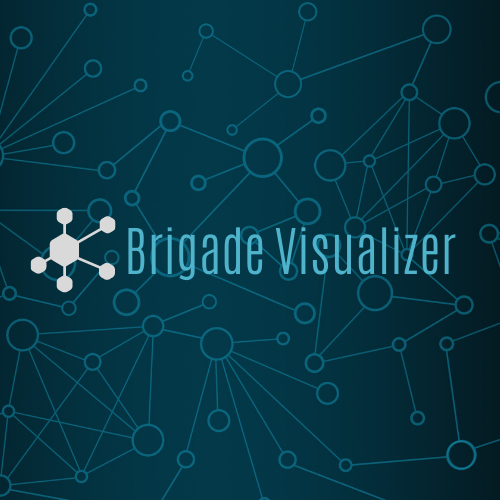
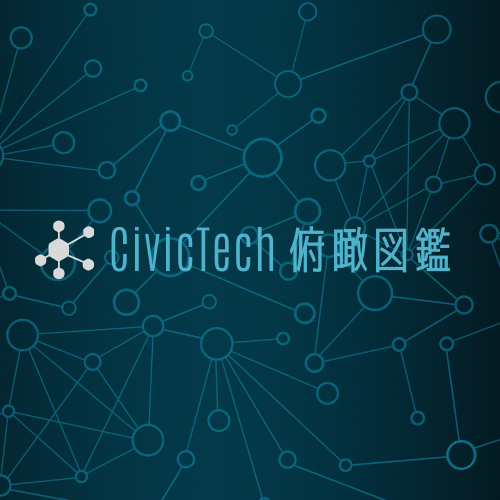
CivicTech俯瞰図鑑に改名・キーワードをソート・アンケートページを追加

Changed region(s): [[0.06, 0.42, 0.93, 0.6]]

diff --git a/index.html b/index.html
@@ -4,10 +4,10 @@
   <meta charset="UTF-8">
   <meta name="viewport" content="width=device-width">
   <meta property="og:url" content="https://siramatu.github.io/brigade-visualizer/" />
-  <meta property="og:title" content="Brigade Visualiser" />
-  <meta property="og:description" content="各地ブリゲードの特徴を分かりやすく伝えたい" />
+  <meta property="og:title" content="CivicTech 俯瞰図鑑" />
+  <meta property="og:description" content="各地シビックテックコミュニティの特徴と関連性を分かりやすく伝えたい" />
   <meta property="og:image" content="https://siramatu.github.io/brigade-visualizer/img/ogp.png" />
-  <title>BRIGADE-VISUALIZER</title>
+  <title>CivicTech 俯瞰図鑑</title>
   <!-- import CSS -->
   <link rel="stylesheet" href="https://unpkg.com/element-ui/lib/theme-chalk/index.css">
   <link href="https://cdnjs.cloudflare.com/ajax/libs/vis/4.21.0/vis.min.css" rel="stylesheet">
@@ -26,7 +26,7 @@
 </head>
 <body>
   <div id="app">
-    <el-header><img src="./img/logo.png" height="90px"></el-header>
+    <el-header><img src="./img/logo.png" height="80px"></el-header>
     <el-main>
       <el-tabs v-model="activeName" @tab-click="handleClick">
         <el-tab-pane label="Top" name="top">
@@ -41,7 +41,7 @@
           <el-button v-on:click="draw()" v-loading.fullscreen.lock="fullscreenLoading">draw</el-button>
           <br><br>
           <div id="mynetwork"></div>
-          <p>選択したブリゲードに近い上位{{max_node}}件のブリゲードを表示しています</p>
+          <p>選択したコミュニティに近い上位{{max_node}}件のコミュニティを表示しています</p>
           <p>Embedding Projectorで見る場合は<a target="_blank" href="https://projector.tensorflow.org/?config=https://raw.githubusercontent.com/siramatu/brigade-visualizer/master/embedding_projector_config.json">こちら</a>をクリック</p>
         </el-tab-pane>
         <el-tab-pane label="Keyword" name="keyword">
@@ -56,8 +56,12 @@
           <el-button v-on:click="drawKeyword()" v-loading.fullscreen.lock="fullscreenLoading">draw</el-button>
           <br><br>
           <div id="keywordnetwork"></div>
-          <p>選択したキーワードに関心度の高い上位{{max_node}}件のブリゲードを表示しています</p>
-      </el-tab-pane>
+          <p>選択したキーワードに関心度の高い上位{{max_node}}件のコミュニティを表示しています</p>
+        </el-tab-pane>
+        <el-tab-pane label="entry" name="entry">
+          コミュニティを登録したい方はこちらのアンケートにお答えください
+          <iframe width="100%" height="500" src="https://forms.gle/21TLsqKQQLTaCHKd6" frameborder="0"></iframe>
+        </el-tab-pane>
         <el-tab-pane label="About" name="about">
           <iframe width="100%" height="500" src="https://hackmd.io/@TGL6KqgYTmyO2qgobnL2pg/Hy4uJ5CLD/" frameborder="0"></iframe>
         </el-tab-pane>
@@ -75,8 +79,8 @@
   <script src="https://unpkg.com/element-ui/lib/index.js"></script>
   <script src="https://unpkg.com/axios/dist/axios.min.js"></script>
   <script>
-    var LENGTH_BRIGADE = 8000, //ブリゲード間の距離の重み
-    LENGTH_KEYWORD = 100,//ブリゲード-キーワード間の距離の重み
+    var LENGTH_BRIGADE = 8000, //コミュニティ間の距離の重み
+    LENGTH_KEYWORD = 100,//コミュニティ-キーワード間の距離の重み
     MAX_NODE = 5; //表示件数
     new Vue({
       el: '#app',
@@ -103,14 +107,14 @@
           console.log("draw***********************");
           //入力チェック
           if (this.selectedValue == '') {
-            this.message = "ブリゲードを選択して下さい";
+            this.message = "コミュニティを選択して下さい";
             this.visible = true;
             return;
           }
 
           this.fullscreenLoading = true;//描画中
 
-          //選択されたブリゲードと距離の近いブリゲードを取得する
+          //選択されたコミュニティと距離の近いコミュニティを取得する
           let bg_map = this.selectedBrigade(MAX_NODE);
 
           //ネットワーク図の描画
@@ -128,14 +132,14 @@
 
           this.fullscreenLoading = true;//描画中
 
-          //選択されたキーワードと距離の近いブリゲードを取得する
+          //選択されたキーワードと距離の近いコミュニティを取得する
           let bg_map = this.selectedBrigadeKeyword(MAX_NODE);
 
           //ネットワーク図の描画
           this.drawNetwork(bg_map,"keywordnetwork",this.selectedKeyword);
         },
         selectedBrigade:function(max_cnt) {
-          //選択されたブリゲードと距離の近いブリゲードを取得する
+          //選択されたコミュニティと距離の近いコミュニティを取得する
           //let bg_arr = []
           let bg_map = new Map();
           bg_map.set(this.selectedValue,'1.0');
@@ -150,11 +154,11 @@
               bg_map.set(cols[0],cols[2]);//from
             }
           }
-          return this.filterBrigade(bg_map,max_cnt+1);//自分のブリゲードを含むためcnt+1
+          return this.filterBrigade(bg_map,max_cnt+1);//自分のコミュニティを含むためcnt+1
         },
         selectedBrigadeKeyword:function(max_cnt) {
           console.log("selectedBrigadeKeyword***********************");
-          //選択されたキーワードと距離の近いブリゲードを取得する
+          //選択されたキーワードと距離の近いコミュニティを取得する
           //let bg_arr = []
           let bg_map = new Map();
           //bg_map.set(this.selectedValue,'1.0');
@@ -193,12 +197,12 @@
           // Create a data table with links.
           var edges = [];
 
-          //ブリゲードのプロット
+          //コミュニティのプロット
           for (var key of bg_map.keys()) {
             nodes.push({ id: key, label: key, group: (key == selected)?"selected":"brigade", value: 10 });
           }
 
-          //ブリゲード間の距離
+          //コミュニティ間の距離
           rows = this.brigade_distance;
           for (let i=0; i<rows.length; i++) {
             let cols = rows[i].split(",");
@@ -213,7 +217,7 @@
             });
           }
 
-          //ブリゲードとキーワード間の距離
+          //コミュニティとキーワード間の距離
           let ky_map = new Map();
           rows = this.brigade_keyword_distance;
           for (let i=0; i<rows.length; i++) {
@@ -284,12 +288,25 @@
           network = new vis.Network(container, data, options);
           network.on("afterDrawing", () => {this.fullscreenLoading = false;});
         },
+        sortKeyword:function(keywords){
+          let arr = keywords;
+          if (arr) {
+            //nameで並び替え
+            arr = Array.from(keywords).sort(
+              function (a,b){
+                  //console.log(a.keyword+":"+b.keyword+":"+((a.keyword > b.keyword) ? 1 : -1));
+                  return ((a.keyword > b.keyword) ? 1 : -1);
+                }
+              );
+          }
+          return arr;
+        },
       },
       mounted: function () {
         //JSONデータの読み込み
         axios.get("./json/brigades.json").then(response => (this.brigades = response.data));
         //console.log("brigades:"+this.brigades);
-        axios.get("./json/keywords.json").then(response => (this.keywords = response.data));
+        axios.get("./json/keywords.json").then(response => (this.keywords = this.sortKeyword(response.data)));
         axios.get("./json/brigade-distance-bert.json").then(response => (this.brigade_distance = response.data));
         axios.get("./json/brigade-keyword-distance-bert.json").then(response => (this.brigade_keyword_distance = response.data));
 
